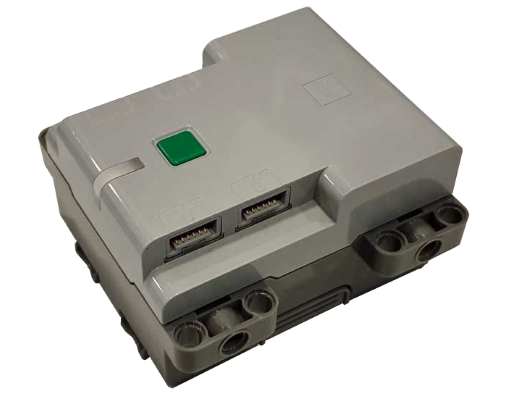
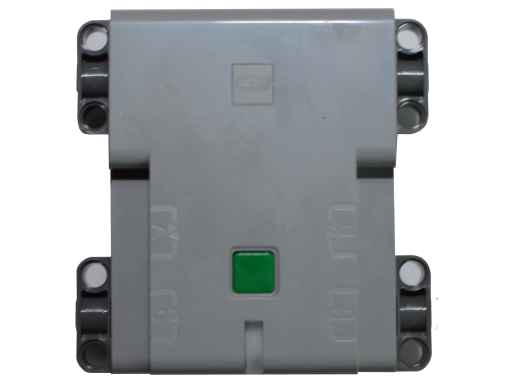
New technic hub image

diff --git a/BrickController2/BrickController2/UI/Controls/DeviceChannelSelector.xaml b/BrickController2/BrickController2/UI/Controls/DeviceChannelSelector.xaml
@@ -119,24 +119,23 @@
 
             <!-- Technic Hub -->
             <Grid x:Name="TechnicHubSection">
-                <Grid.RowDefinitions>
-                    <RowDefinition Height="Auto"/>
-                    <RowDefinition Height="Auto"/>
-                    <RowDefinition Height="Auto"/>
-                    <RowDefinition Height="Auto"/>
-                </Grid.RowDefinitions>
                 <Grid.ColumnDefinitions>
                     <ColumnDefinition Width="*"/>
                     <ColumnDefinition Width="Auto"/>
                     <ColumnDefinition Width="*"/>
                 </Grid.ColumnDefinitions>
 
-                <controls:ChannelSelectorRadioButton Grid.Column="0" Grid.Row="0" x:Name="TechnicHubChannel0" Channel="0" Text="A" HorizontalOptions="Start" VerticalOptions="Start"/>
-                <controls:ChannelSelectorRadioButton Grid.Column="0" Grid.Row="1" x:Name="TechnicHubChannel1" Channel="1" Text="B" HorizontalOptions="Start" VerticalOptions="Start"/>
-                <controls:ChannelSelectorRadioButton Grid.Column="0" Grid.Row="2" x:Name="TechnicHubChannel2" Channel="2" Text="C" HorizontalOptions="Start" VerticalOptions="Start"/>
-                <controls:ChannelSelectorRadioButton Grid.Column="0" Grid.Row="3" x:Name="TechnicHubChannel3" Channel="3" Text="D" HorizontalOptions="Start" VerticalOptions="Start"/>
+                <StackLayout Grid.Column="0" Orientation="Vertical" VerticalOptions="End">
+                    <controls:ChannelSelectorRadioButton x:Name="TechnicHubChannel0" Channel="0" Text="A" HorizontalOptions="End"/>
+                    <controls:ChannelSelectorRadioButton x:Name="TechnicHubChannel2" Channel="2" Text="C" HorizontalOptions="End"/>
+                </StackLayout>
 
-                <Image Grid.Column="1" Grid.Row="0" Grid.RowSpan="4" Source="{extensions:ImageResource Source=technichub_image.png}" WidthRequest="150" HeightRequest="80"/>
+                <Image Grid.Column="1" Source="{extensions:ImageResource Source=technichub_image.png}" WidthRequest="150" HeightRequest="80"/>
+
+                <StackLayout Grid.Column="2" Orientation="Vertical" VerticalOptions="End">
+                    <controls:ChannelSelectorRadioButton x:Name="TechnicHubChannel1" Channel="1" Text="B" HorizontalOptions="Start"/>
+                    <controls:ChannelSelectorRadioButton x:Name="TechnicHubChannel3" Channel="3" Text="D" HorizontalOptions="Start"/>
+                </StackLayout>
             </Grid>
 
         </Grid>
